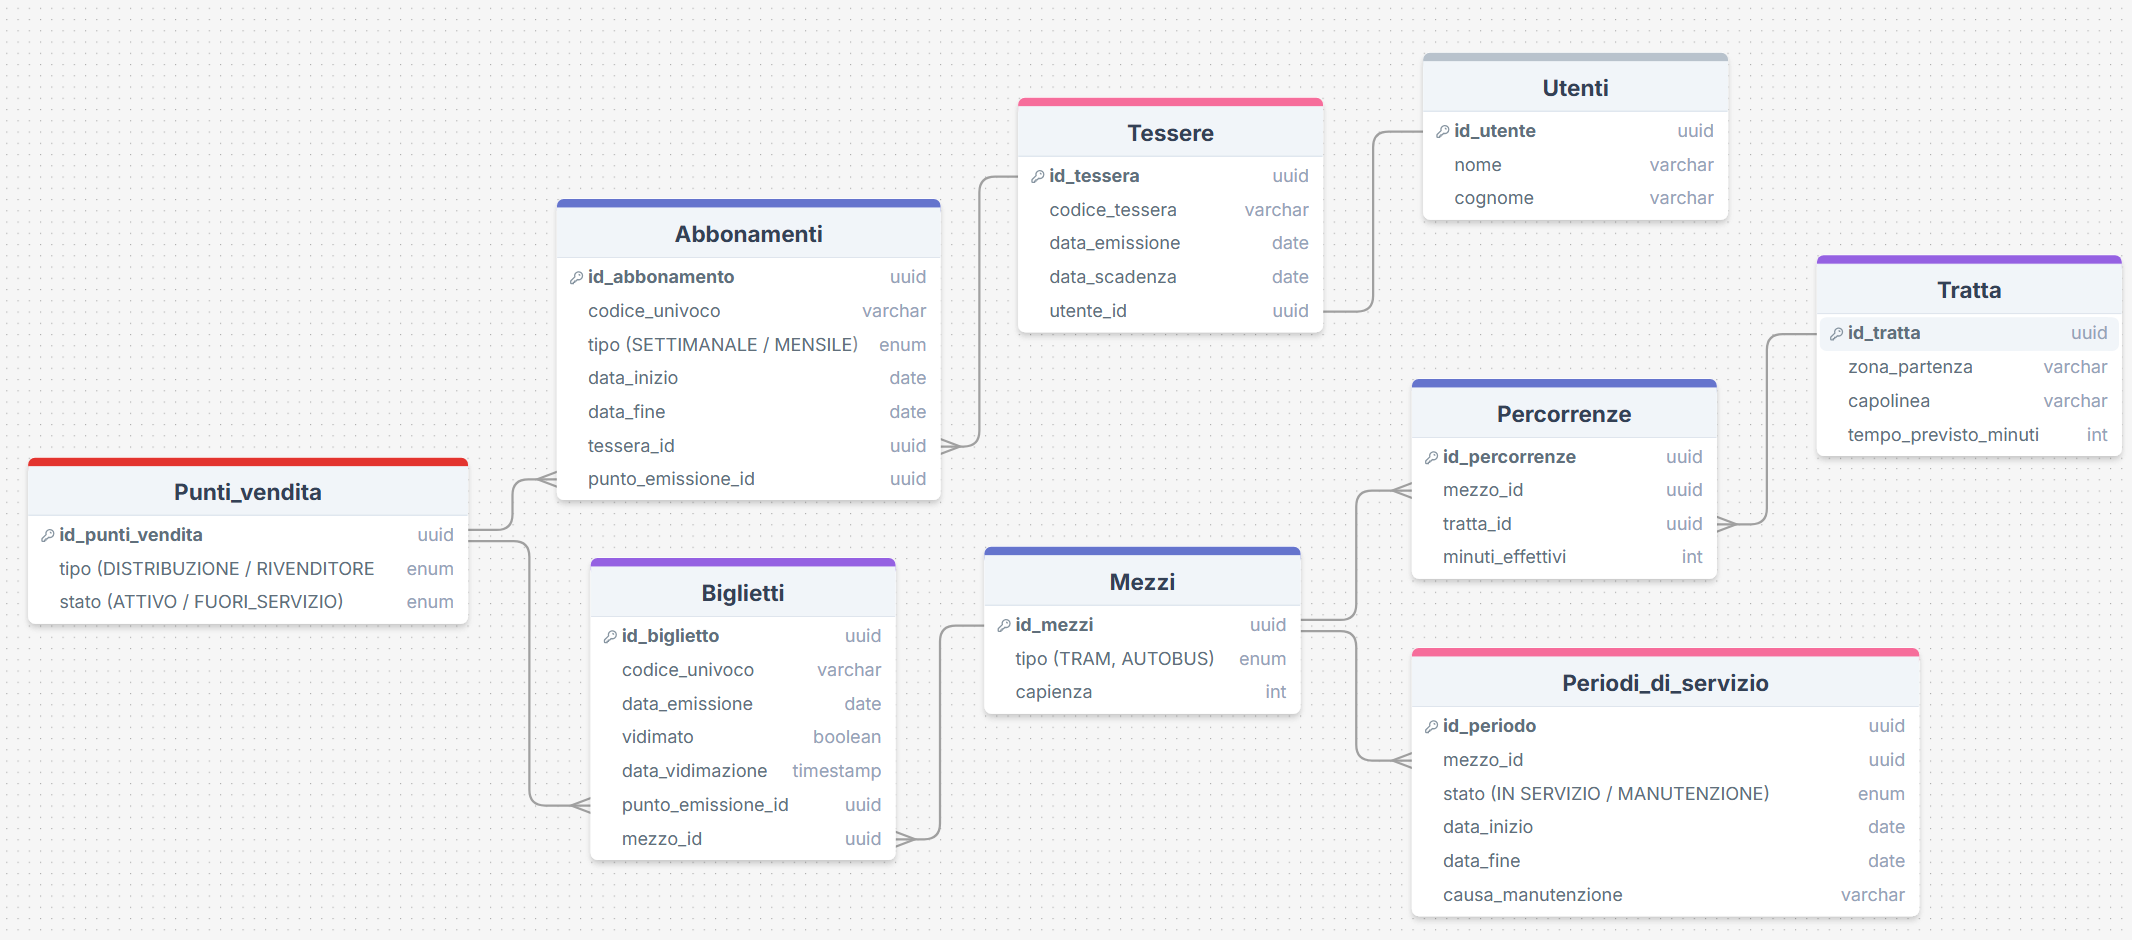
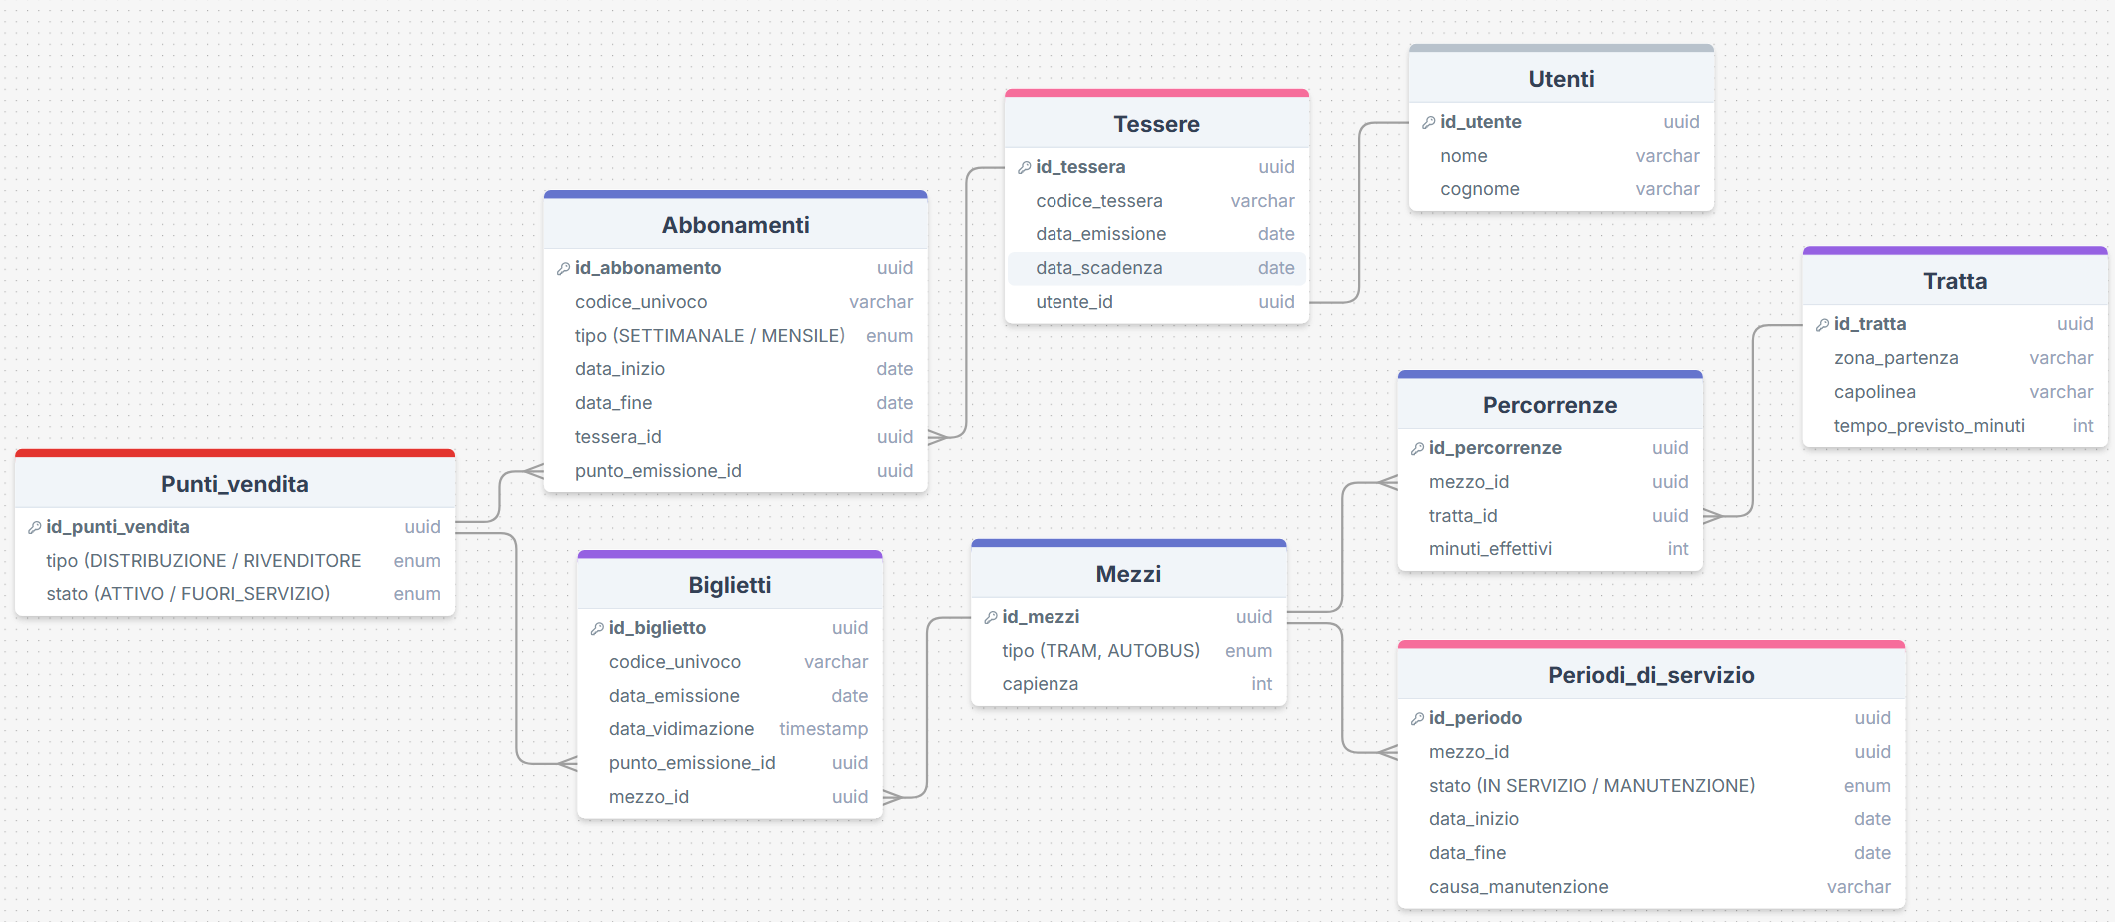
Modifiche al progetto generali

diff --git a/src/main/java/team3/entities/Percorrenza.java b/src/main/java/team3/entities/Percorrenza.java
@@ -3,8 +3,6 @@ package team3.entities;
 import jakarta.persistence.*;
 import org.hibernate.annotations.UuidGenerator;
 
-import java.time.LocalDate;
-import java.util.Objects;
 import java.util.UUID;
 
 @Entity
@@ -26,22 +24,15 @@ public class Percorrenza {
     @JoinColumn(name = "tratta_id", referencedColumnName = "id_tratta", nullable = false)
     private Tratta tratta;
 
-    @Column(name = "data_ora_partenza", nullable = false)
-    private LocalDate data_ora_partenza;
-
-    @Column(name = "data_ora_arrivo", nullable = false)
-    private LocalDate data_ora_arrivo;
-
     @Column(name = "minuti_effettivi", nullable = false)
     private int minuti_effettivi;
 
-    protected Percorrenza() {}
+    protected Percorrenza() {
+    }
 
-    public Percorrenza(MezzoDiTrasporto mezzo, Tratta tratta, LocalDate data_ora_partenza, LocalDate data_ora_arrivo, int minuti_effettivi) {
+    public Percorrenza(MezzoDiTrasporto mezzo, Tratta tratta, int minuti_effettivi) {
         this.mezzo = mezzo;
         this.tratta = tratta;
-        this.data_ora_partenza = data_ora_partenza;
-        this.data_ora_arrivo = data_ora_arrivo;
         this.minuti_effettivi = minuti_effettivi;
     }
 
@@ -55,38 +46,22 @@ public class Percorrenza {
         return mezzo;
     }
 
+    public void setMezzo(MezzoDiTrasporto mezzo) {
+        this.mezzo = mezzo;
+    }
+
     public Tratta getTratta() {
         return tratta;
     }
 
-    public LocalDate getData_ora_partenza() {
-        return data_ora_partenza;
-    }
-
-    public LocalDate getData_ora_arrivo() {
-        return data_ora_arrivo;
-    }
-
-    public int getMinuti_effettivi() {
-        return minuti_effettivi;
-    }
-
     //   Setter
-
-    public void setMezzo(MezzoDiTrasporto mezzo) {
-        this.mezzo = mezzo;
-    }
 
     public void setTratta(Tratta tratta) {
         this.tratta = tratta;
     }
 
-    public void setData_ora_partenza(LocalDate data_ora_partenza) {
-        this.data_ora_partenza = data_ora_partenza;
-    }
-
-    public void setData_ora_arrivo(LocalDate data_ora_arrivo) {
-        this.data_ora_arrivo = data_ora_arrivo;
+    public int getMinuti_effettivi() {
+        return minuti_effettivi;
     }
 
     public void setMinuti_effettivi(int minuti_effettivi) {
@@ -97,8 +72,6 @@ public class Percorrenza {
     public String toString() {
         return "Percorrenza{" +
                 "id_percorrenze=" + id_percorrenze +
-                ", data_ora_partenza=" + data_ora_partenza +
-                ", data_ora_arrivo=" + data_ora_arrivo +
                 ", minuti_effettivi=" + minuti_effettivi +
                 '}';
     }

diff --git a/src/main/java/team3/entities/PeriodoDiServizio.java b/src/main/java/team3/entities/PeriodoDiServizio.java
@@ -27,9 +27,29 @@ public class PeriodoDiServizio {
     @Column(name = "data_fine")
     private LocalDate dataFine;
 
+    @Column(name = "causa_manutenzione")
+    private String causaManutenzione;
+
     public PeriodoDiServizio() {
     }
     // getter e setter
+
+    public PeriodoDiServizio(StatoServizio statoServizio, MezzoDiTrasporto mezzo, LocalDate dataInizio, LocalDate dataFine) {
+        this.statoServizio = statoServizio;
+        this.mezzo = mezzo;
+        // Faccio dei controlli sulle date (la data di inizio non deve essere null
+        // e la data di fine deve essere successiva a quella di inizio
+        if (dataInizio == null) {
+            throw new IllegalArgumentException("Devi inserire una data di inizio!");
+        }
+
+        if (dataFine != null && dataFine.isBefore(dataInizio)) {
+            throw new IllegalArgumentException("Attenzione! La data di fine deve essere " +
+                    "successiva alla data di inizio!");
+        }
+        this.dataInizio = dataInizio;
+        this.dataFine = dataFine;
+    }
 
     public UUID getId() {
         return id;
@@ -67,21 +87,12 @@ public class PeriodoDiServizio {
         this.dataFine = dataFine;
     }
 
-    public PeriodoDiServizio(StatoServizio statoServizio, MezzoDiTrasporto mezzo, LocalDate dataInizio, LocalDate dataFine) {
-        this.statoServizio = statoServizio;
-        this.mezzo = mezzo;
-        // Faccio dei controlli sulle date (la data di inizio non deve essere null
-        // e la data di fine deve essere successiva a quella di inizio
-        if (dataInizio == null) {
-            throw new IllegalArgumentException("Devi inserire una data di inizio!");
-        }
+    public String getCausaManutenzione() {
+        return causaManutenzione;
+    }
 
-        if (dataFine != null && dataFine.isBefore(dataInizio)) {
-            throw new IllegalArgumentException("Attenzione! La data di fine deve essere " +
-                    "successiva alla data di inizio!");
-        }
-        this.dataInizio = dataInizio;
-        this.dataFine = dataFine;
+    public void setCausaManutenzione(String causaManutenzione) {
+        this.causaManutenzione = causaManutenzione;
     }
 
 }

diff --git a/src/main/java/team3/entities/Biglietto.java b/src/main/java/team3/entities/Biglietto.java
@@ -23,8 +23,6 @@ public class Biglietto {
     @Column(name = "data_emissione", nullable = false)
     private LocalDate dataEmissione;
 
-    @Column(name = "vidimato", nullable = false)
-    private boolean vidimato;
 
     @Column(name = "data_vidimazione")
     private LocalDateTime dataVidimazione; // nullable finché non è vidimato
@@ -33,13 +31,16 @@ public class Biglietto {
     @JoinColumn(name = "punto_emissione_id", nullable = false)
     private PuntoVendita puntoVendita;
 
+    @ManyToOne
+    @JoinColumn(name = "mezzo_id", nullable = false)
+    private MezzoDiTrasporto mezzo;
+
     public Biglietto() {
     }
 
-    public Biglietto(String codiceUnivoco, LocalDate dataEmissione, boolean vidimato, LocalDateTime dataVidimazione, PuntoVendita puntoVendita) {
+    public Biglietto(String codiceUnivoco, LocalDate dataEmissione, LocalDateTime dataVidimazione, PuntoVendita puntoVendita) {
         this.codiceUnivoco = codiceUnivoco;
         this.dataEmissione = dataEmissione;
-        this.vidimato = vidimato;
         this.dataVidimazione = dataVidimazione;
         this.puntoVendita = puntoVendita;
     }
@@ -64,13 +65,6 @@ public class Biglietto {
         this.dataEmissione = dataEmissione;
     }
 
-    public boolean isVidimato() {
-        return vidimato;
-    }
-
-    public void setVidimato(boolean vidimato) {
-        this.vidimato = vidimato;
-    }
 
     public LocalDateTime getDataVidimazione() {
         return dataVidimazione;
@@ -94,7 +88,6 @@ public class Biglietto {
                 "idBiglietto=" + idBiglietto +
                 ", codiceUnivoco='" + codiceUnivoco + '\'' +
                 ", dataEmissione=" + dataEmissione +
-                ", vidimato=" + vidimato +
                 ", dataVidimazione=" + dataVidimazione +
                 '}';
     }

diff --git a/src/main/java/team3/exceptions/NotFoundException.java b/src/main/java/team3/exceptions/NotFoundException.java
@@ -1,0 +1,7 @@
+package team3.exceptions;
+
+public class NotFoundException extends RuntimeException {
+    public NotFoundException(String message) {
+        super(message);
+    }
+}
